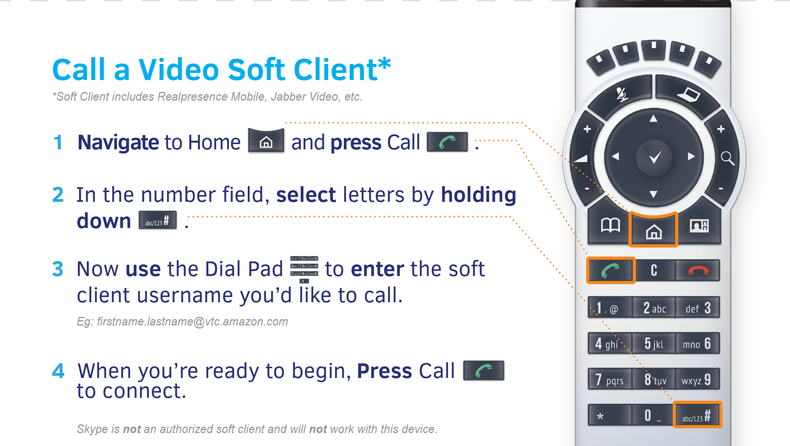
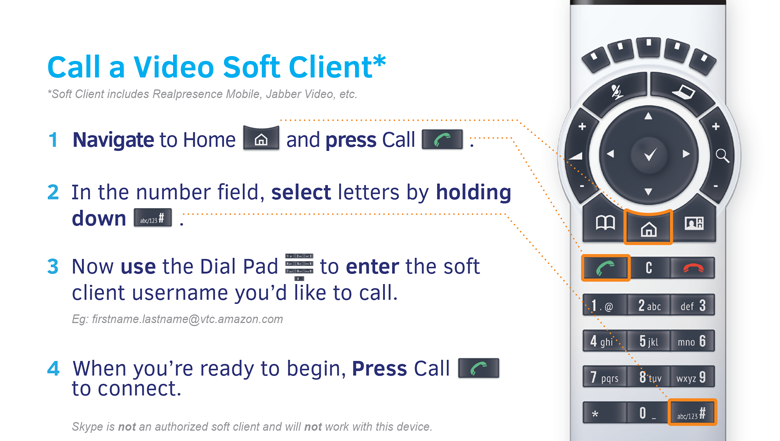
Plus and Minus
added a plus and minus to the buttons, and updated the images to not be
cropped funny

diff --git a/booklet.js b/booklet.js
@@ -1,25 +1,41 @@
 $('document').ready(function(){
 	$("#dynamicinstructions").on('click','#inst1',function(){
-	$('.booklet').removeClass('tabactivate')
-	$(this).addClass('tabactivate')
+	$('.booklet').removeClass('tabactivate');
+	$(this).addClass('tabactivate');
+	$(".minusoption").css("display","none");
+    $(".plusoption").css("display","block");
+	$(this).find(".plusoption").css("display","none")
+	$(this).find(".minusoption").css("display","block")
 	$(".instphoto").slideUp();
 	$(".inst1").slideDown();	
 	});
 	$("#dynamicinstructions").on('click','#inst2',function(){
-	$('.booklet').removeClass('tabactivate')
-	$(this).addClass('tabactivate')
+	$('.booklet').removeClass('tabactivate');
+	$(".minusoption").css("display","none");
+    $(".plusoption").css("display","block");
+	$(this).find(".plusoption").css("display","none")
+	$(this).find(".minusoption").css("display","block")
+	$(this).addClass('tabactivate');
 	$(".instphoto").slideUp();
 	$(".inst2").slideDown();	
 	});
 	$("#dynamicinstructions").on('click','#inst3',function(){
-	$('.booklet').removeClass('tabactivate')
-	$(this).addClass('tabactivate')
+	$('.booklet').removeClass('tabactivate');
+	$(this).addClass('tabactivate');
+	$(".minusoption").css("display","none");
+    $(".plusoption").css("display","block");
+	$(this).find(".plusoption").css("display","none")
+	$(this).find(".minusoption").css("display","block")
 	$(".instphoto").slideUp();
 	$(".inst3").slideDown();	
 	});
 	$("#dynamicinstructions").on('click','#inst4',function(){
 	$('.booklet').removeClass('tabactivate')
-	$(this).addClass('tabactivate')
+	$(this).addClass('tabactivate');
+	$(".minusoption").css("display","none");
+    $(".plusoption").css("display","block");
+	$(this).find(".plusoption").css("display","none");
+	$(this).find(".minusoption").css("display","block");
 	$(".instphoto").slideUp();
 	$(".inst4").slideDown();	
 	});

diff --git a/booklet.html b/booklet.html
@@ -5,11 +5,11 @@
 </head>
 <body><div id="dynamicinstructions">
 <div id="instphoto" class="inst1 instphoto" style="display:block;"><img src="./images/c40guide1.png"></div>
-<div id="inst1" class="booklet tabactivate"><span>Call a Single Amazon Location</span></div>
+<div id="inst1" class="booklet tabactivate"><div id="plusoption" style="display:none;" class="plusoption">+    </div><div id="minusoption" style="display:block;" class="minusoption"> -    </div><span>Call a Single Amazon Location</span></div>
 <div id="instphoto" class="inst2 instphoto"><img src="./images/c40guide2.png"></div>
-<div id="inst2" class="booklet"><span>Call Multiple Amazon Locations</span></div>
+<div id="inst2" class="booklet"><div id="plusoption" class="plusoption">+    </div><div id="minusoption" class="minusoption"> -    </div><span>Call Multiple Amazon Locations</span></div>
 <div id="instphoto" class="inst3 instphoto"><img src="./images/c40guide3.png"></div>
-<div id="inst3" class="booklet"><span>Call a Video Soft Client</span></div>
+<div id="inst3" class="booklet"><div id="plusoption" class="plusoption">+    </div><div id="minusoption" class="minusoption"> -    </div><span>Call a Video Soft Client</span></div>
 <div id="instphoto" class="inst4 instphoto"><img src="./images/c40guide4.png"></div>
-<div id="inst4" class="booklet"><span>Call an Amazon Video Bridge</span></div>
+<div id="inst4" class="booklet"><div id="plusoption" class="plusoption">+    </div><div id="minusoption" class="minusoption"> -    </div><span>Call an Amazon Video Bridge</span></div>
 </div></body>

diff --git a/stylesheet.css b/stylesheet.css
@@ -8,6 +8,7 @@
     font-size:1.7em;
         cursor:pointer;
     z-index:3;
+	display: inline-flex;
 }
 .dynamicinstructions{
 	            position:absolute;
@@ -22,3 +23,12 @@
     background-color:#2e3276;
     color: white;
 }
+#plusoption{
+		position:inherit;
+		padding-right:20px;
+		width:10px;
+	}
+#minusoption{display:none;
+	position:inherit;
+		padding-right:20px;
+		width:10px;}
